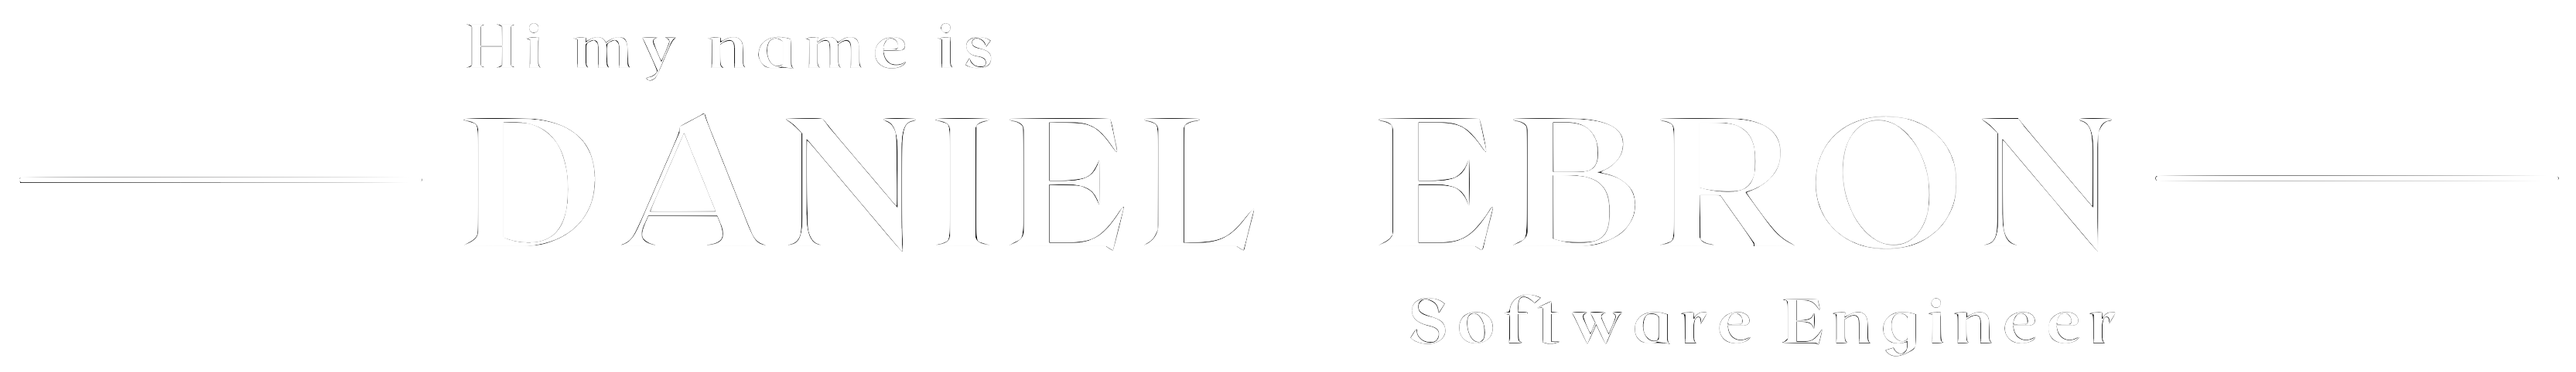
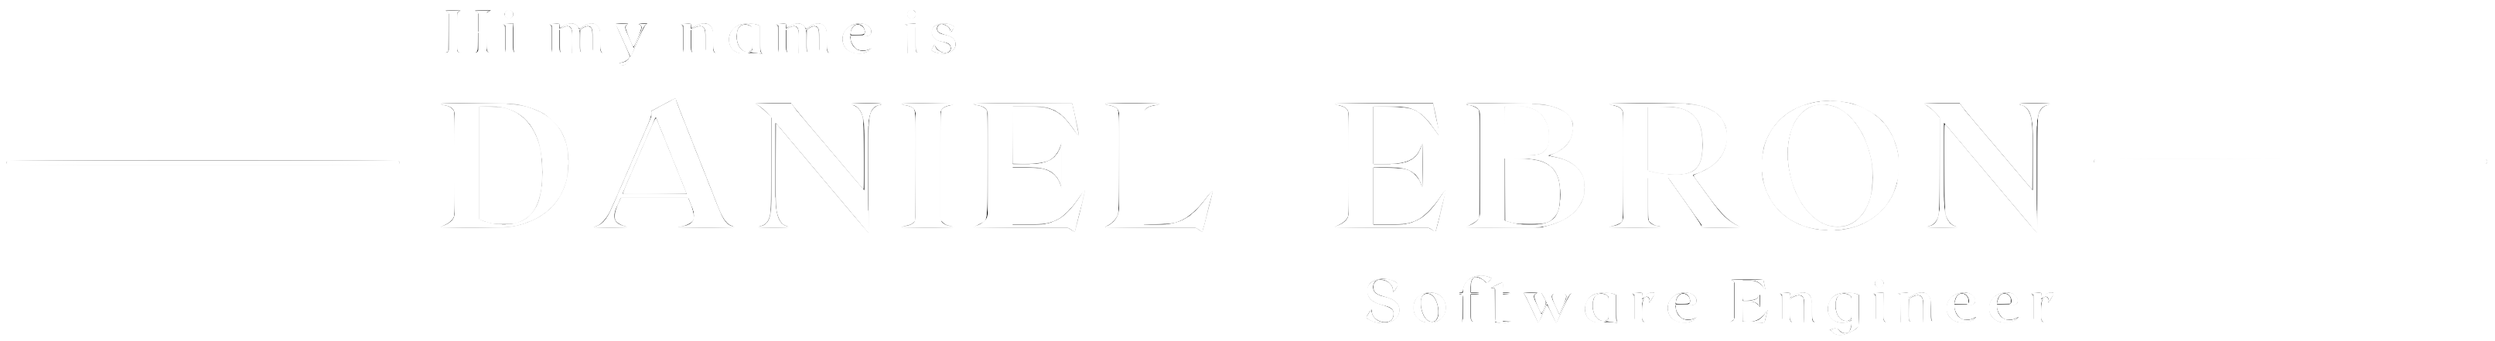
finalizing heading. pt 2

diff --git a/index.html b/index.html
@@ -35,6 +35,7 @@
   </head>
 
   <body>
+    <div class="overall-spacing">
       <section class="main-background" id="title">
 
             <!-- NavBar -->
@@ -79,25 +80,25 @@
 
             <img
             class="heading-resize"
-            src="images/headingA.png"
+            src="images/headingB.png"
             alt="Heading"
             />
 
             <div class="icons-portion">
               <a href="https://www.linkedin.com/in/daniel-ebron/">
-                <img src="images/linkedin24.png" class="linkedin">
+                <img src="images/blacklinkedin.png" class="linkedin img-size">
               </a>
               <a href="https://github.com/Dallas-Alfonso">
-                <img src="images/github24.png">
+                <img src="images/blackgithub.png" class="img-size">
               </a>
               <a href="mailto:dallas.ebron@gmail.com">
-                <img src="images/message24.png" class="email">
+                <img src="images/blackemail.png" class="email img-size">
               </a>
           </div>
 
-          <button type="button" class="btn btn-outline-light btn-lg button1">
+          <!-- <button type="button" class="btn btn-outline-light btn-lg button1">
           View Projects
-          </button>
+          </button> -->
             
       </section>
 
@@ -361,7 +362,7 @@
         </section>
 
       </section>
-
+    </div>
   </body>
 </html>
 

diff --git a/Styles.css b/Styles.css
@@ -21,13 +21,13 @@ body{
 }
 
 .nav-item {
-    padding: 0 65px;
+    padding: 0 2.6em;
 }
 
 .nav-link {
     /* border-top: solid thin white; */
     font-family: 'Cormorant', serif;
-    font-size: 19.5px;
+    font-size: 1.0em; /*17px*/
     font-weight: 400;
     letter-spacing: 3.5px;   
     line-height: .3;
@@ -37,31 +37,38 @@ nav .navbar-nav li a{
     color: white !important;
     }
 
+
+
+    .overall-spacing{
+        padding: 0 10em;
+    }
+
 /* Title */
 
-.button1{
-    font-size: 21px;
+/* .button1{
+    font-size: 1em;
     font-weight: 400;
     letter-spacing: 1.0px; 
     margin: 0 0 2% 0;
     padding: 1px 20px;
-}
+} */
 
 .email{
     padding: 0 0 0 20px;
 }
 
 .heading-resize{
-    width: 80%;
+    width: 60%;
     height: auto;
     /* Adjust margin more accurately after all info/designs have been implemented */
-    margin: 15% 0 14%;
+    margin: 12em 0 7em;
 }
 
 .icons-portion{
-    padding: 0 0 100px 0 ;
+    padding: 0 0 12em 0 ;
 }
 
+/*refractor with email. combine in one div*/
 .linkedin{
     padding: 0 20px 0 0;
 }
@@ -222,7 +229,7 @@ h6{
 
   /* icons */
   .img-size{
-    height: 25px;
+    height: 1.2em;
     width: auto;
 }
 
